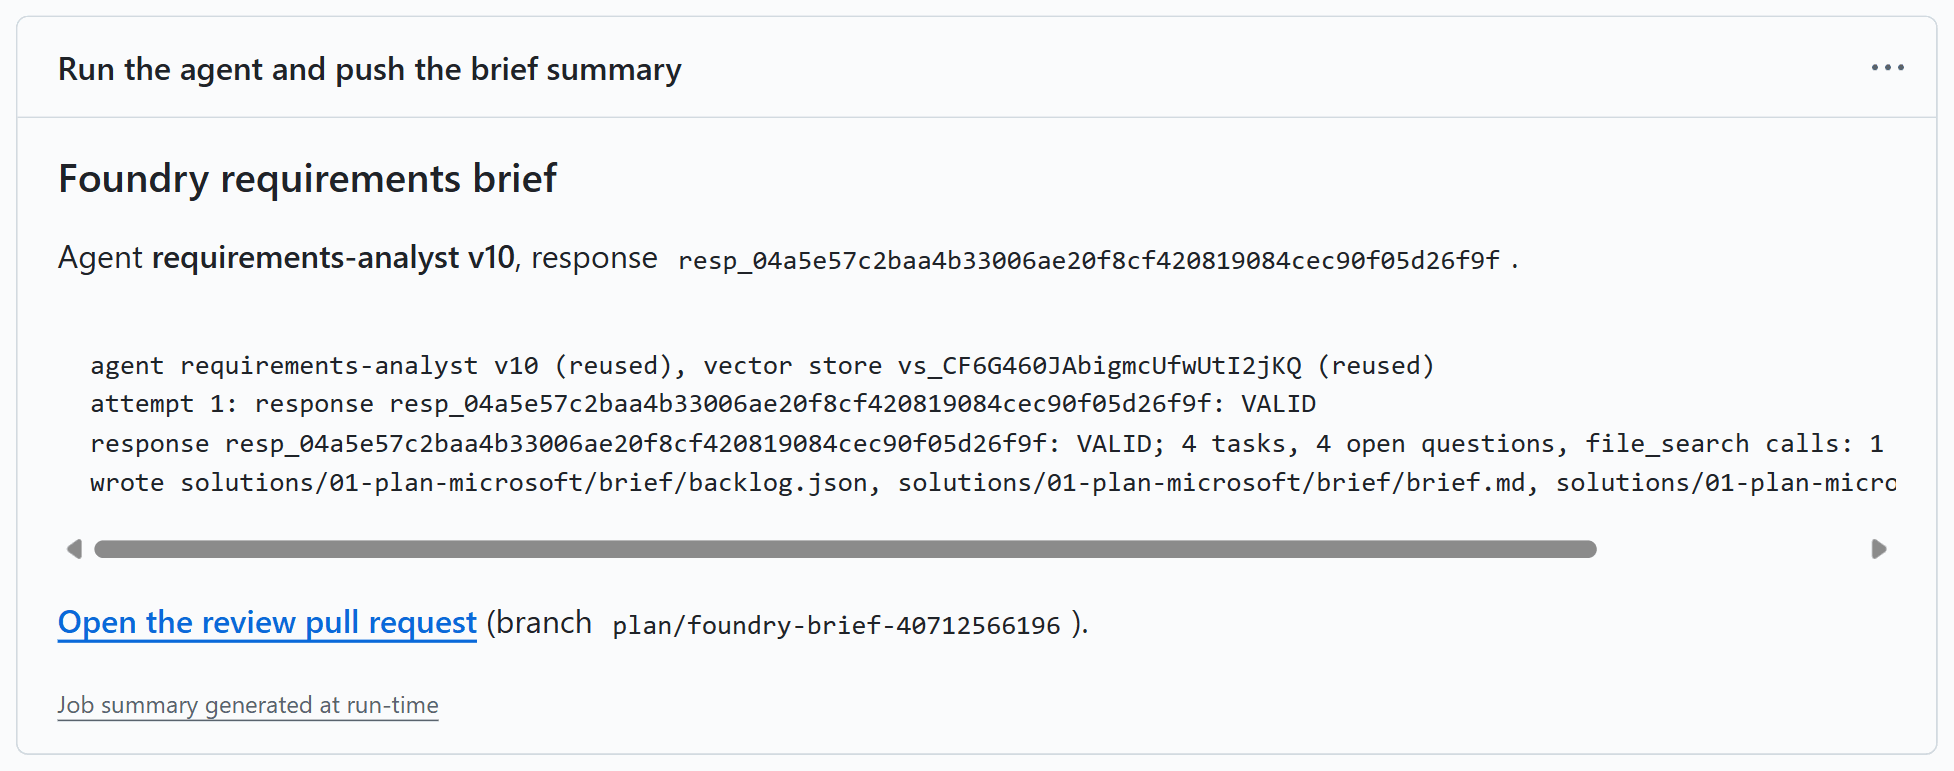
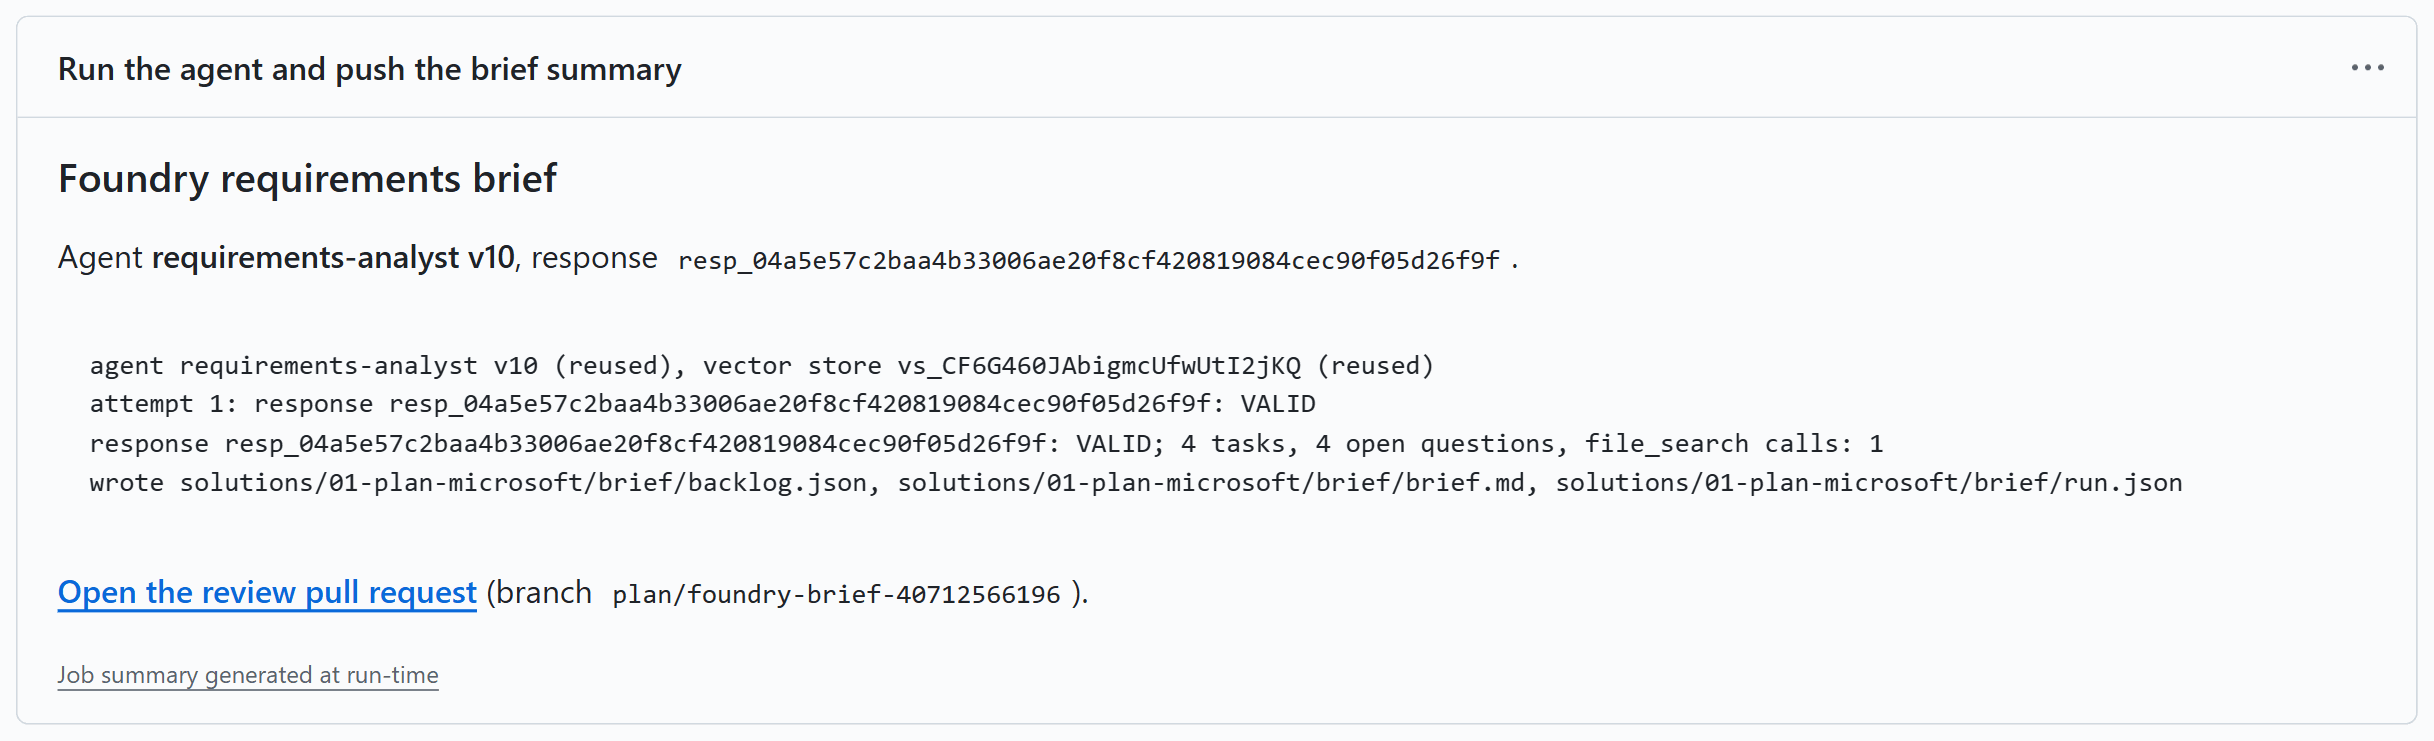
01-plan-microsoft: captions match the images; cleaner crops
Re-captured the run summary wide enough for the whole output and the two
publisher comments without the timeline caret, and reworded the alt texts and
Point out lines that claimed more than their screenshot shows.

diff --git a/solutions/01-plan-microsoft/README.md b/solutions/01-plan-microsoft/README.md
@@ -187,7 +187,7 @@ Run the commands from the repository root in PowerShell 7.
 
 3. **Show the agent in Foundry** (1 to 2 minutes). In the [Foundry portal](https://ai.azure.com), open the `plan` project, then **Build** → **Agents** → `requirements-analyst`. Open the **Version** list at the top.
 
-   ![The requirements-analyst agent in the Foundry portal: the Version list shows versions 1 to 10 with version 10 active, next to the model gpt-4.1, the instructions from agent.yaml, and a File search tool bound to the plan-inputs vector store](images/03-foundry-agent.png)
+   ![The requirements-analyst agent in the Foundry portal: the Version list shows versions 1 to 10 with version 10 selected, next to the model gpt-4.1, the instructions from agent.yaml, and a File search tool bound to the plan-inputs vector store](images/03-foundry-agent.png)
 
    **Point out:** this is a managed agent with a history. Its instructions are the ones in `agent.yaml`, file search reads the transcript and policies from a vector store, and each change to the definition added a version.
 
@@ -209,9 +209,9 @@ Run the commands from the repository root in PowerShell 7.
 
    The run takes under a minute. Open it in the browser: **Actions** → **Plan · Microsoft · run the Foundry requirements analyst** → the newest run. Its summary shows the agent version, the response id, the script's output, and the branch it pushed, `plan/foundry-brief-<run id>`.
 
-   ![The workflow run's summary: Foundry requirements brief by agent requirements-analyst v10, the response id, the analyst output ending in VALID, and the Open the review pull request link for branch plan/foundry-brief-40712566196](images/05-run-summary.png)
+   ![The workflow run's job summary: Foundry requirements brief by agent requirements-analyst v10 with its response id, the analyst output (agent and vector store reused, VALID on the first attempt with 4 tasks and 4 open questions, and the three files written), and the Open the review pull request link for branch plan/foundry-brief-40712566196](images/05-run-summary.png)
 
-   **Point out:** no key or password exists for this. The workflow signs in with an identity that only this repository's `plan-microsoft` environment can use, and its public log shows the Foundry endpoint as `***`.
+   **Point out:** the run used the same agent version as your terminal, v10, and ends with a link to a review pull request. No key or password exists for this: the workflow signs in through OIDC, and its log, not shown here, prints the Foundry endpoint as `***`.
 
 6. **Open the review pull request** (1 minute). In the run summary, select **Open the review pull request**. GitHub opens a pull request form with the title and description filled in. Select **Create pull request**.
 
@@ -233,9 +233,9 @@ Run the commands from the repository root in PowerShell 7.
    python .github/skills/brief-compare/compare_briefs.py solutions/01-plan-microsoft/brief/backlog.json $env:TEMP/01-plan-microsoft-pr.json $env:TEMP/01-plan-github.json
    ```
 
-   The columns are your terminal run from step 2, the GitHub Actions run from step 5, and Copilot's brief. Each planted issue is ✅ found, ⚠ found with the wrong status, or ❌ missed.
+   The columns are your terminal run from step 2, the GitHub Actions run from step 5, and Copilot's brief. Each planted issue is ✅ found, ⚠ found with the wrong status, or ❌ missed. In this capture the terminal run is marked ❌ for the Finance vs IT conflict: its brief cited T07 and the two policies but not T06, as step 4 describes.
 
-   ![The comparison of three briefs: both Foundry runs and the Copilot brief find the resolved auto-routing conflict and all four unknowns, and ignore T18; the terminal run misses the Finance versus IT conflict because it cites T07 but not T06, while the Actions run and Copilot find it; Copilot's brief has 13 requirements to Foundry's 5](images/07-compare.png)
+   ![The comparison of three briefs: both Foundry runs and the Copilot brief find the resolved auto-routing conflict and all four unknowns, and ignore T18; the terminal run is marked missed for the Finance versus IT conflict, while the Actions run and Copilot find it; Copilot's brief has 13 requirements to Foundry's 5](images/07-compare.png)
 
    **Point out:** two runs of the same agent version differ. The validator checks that a brief is well-formed and cites real sources; whether it is complete is for the reviewer, helped by this score. Judge a change to `agent.yaml` on several runs, as the [foundry-requirements-agent](.github/skills/foundry-requirements-agent/SKILL.md) skill describes.
 
@@ -243,11 +243,11 @@ Run the commands from the repository root in PowerShell 7.
 
    ![The workflow's comment on the pull request: Backlog published after review, track microsoft: 5 updated, with EPIC-TRIAGE as #21 and TASK-1 to TASK-4 as #22 to #25](images/08-published.png)
 
-   The first time in a repository, every line says `created`. After a reset, the publisher reopens and updates the same Issues, so the lines say `updated`, as here. Open the epic, shown at the top of this page. It carries the summary, acceptance criteria, open questions, the unresolved conflict, and the quoted source paragraphs. Its four tasks are sub-issues, and those that depend on another task are marked blocked:
+   The first time in a repository, every line says `created`. After a reset, the publisher reopens and updates the same Issues, so the lines say `updated`, as here. Open the epic: its top part is the screenshot at the top of this page. Below the open questions, it also lists the unresolved conflict and quotes the source paragraphs. Its four tasks are sub-issues, and those that depend on another task are marked blocked:
 
    ![The epic's Sub-issues panel, 0 of 4 done: Implement Assistant Recommendation Engine (#22) comes first, and Reviewer Confirmation and Override UI (#23), Audit Logging for Recommendations and Lookups (#24), and Bilingual Support and Assistant Availability Handling (#25) are each marked blocked by a dependency](images/08-sub-issues.png)
 
-   **Point out:** nothing reached the backlog until a person applied the label, and every Issue still shows where each line came from.
+   **Point out:** nothing reached the backlog until a person applied the label. The epic's open questions still carry the paragraphs they came from, and the four tasks are linked to it as sub-issues.
 
 9. **Show it is safe to repeat** (about 1 minute). Apply the label again:
 
@@ -258,7 +258,7 @@ Run the commands from the repository root in PowerShell 7.
 
    ![The comment after applying the label again: track microsoft: 5 unchanged, with every line from #21 to #25 marked unchanged](images/09-unchanged.png)
 
-   **Point out:** the publisher is idempotent. Applying the label again updates the existing Issues and never duplicates them.
+   **Point out:** the publisher is idempotent. With the brief unchanged, applying the label again changes nothing: all five lines say `unchanged`, and no Issue is duplicated.
 
 ## What to observe
 
